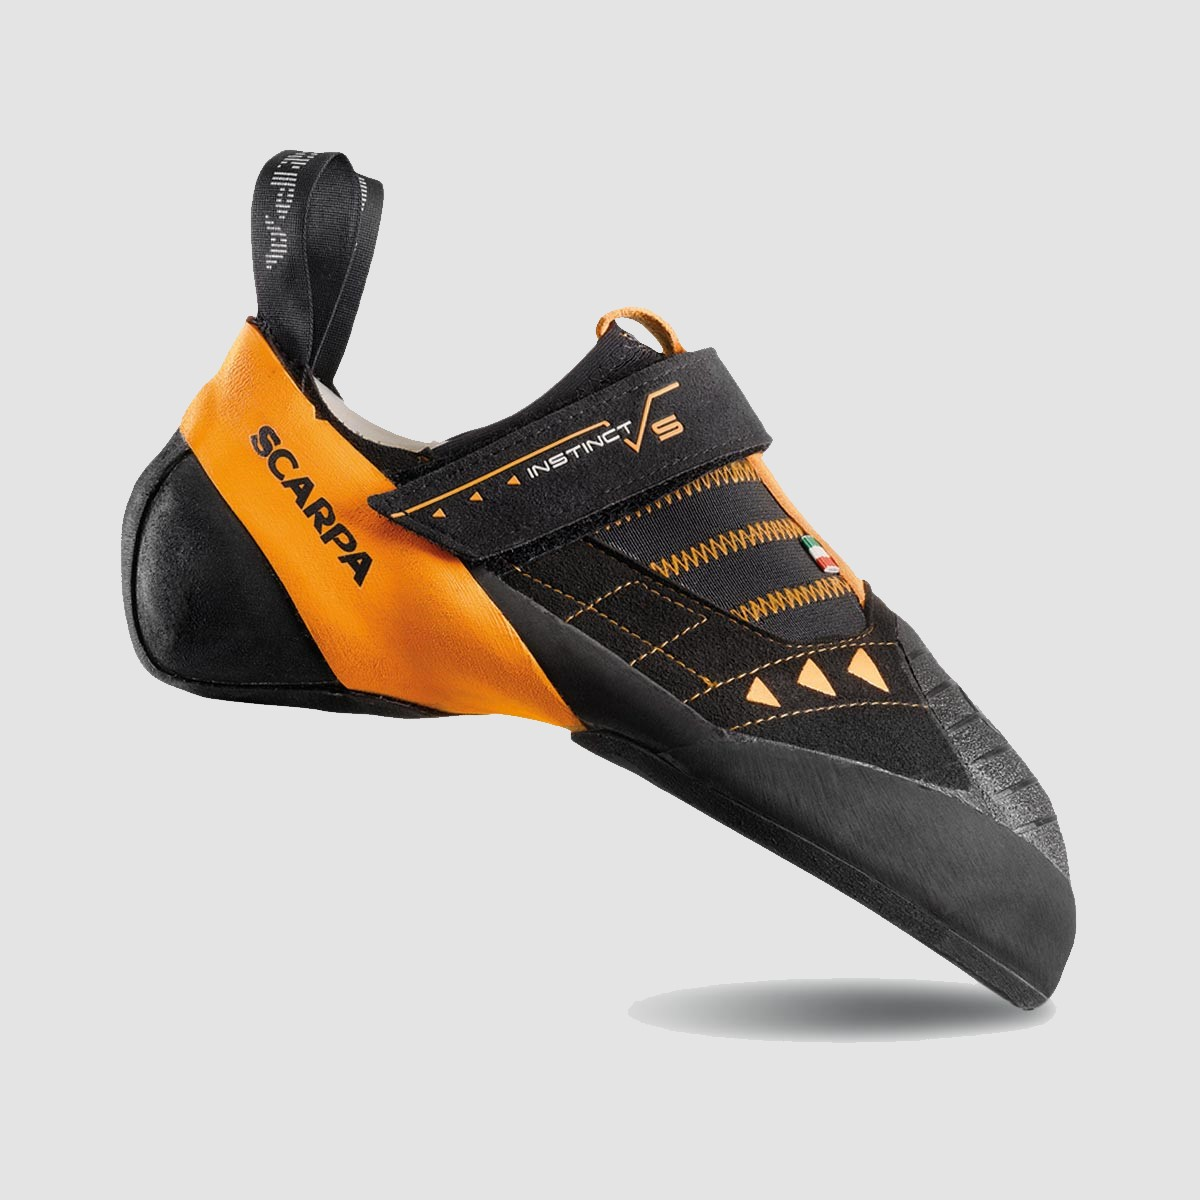
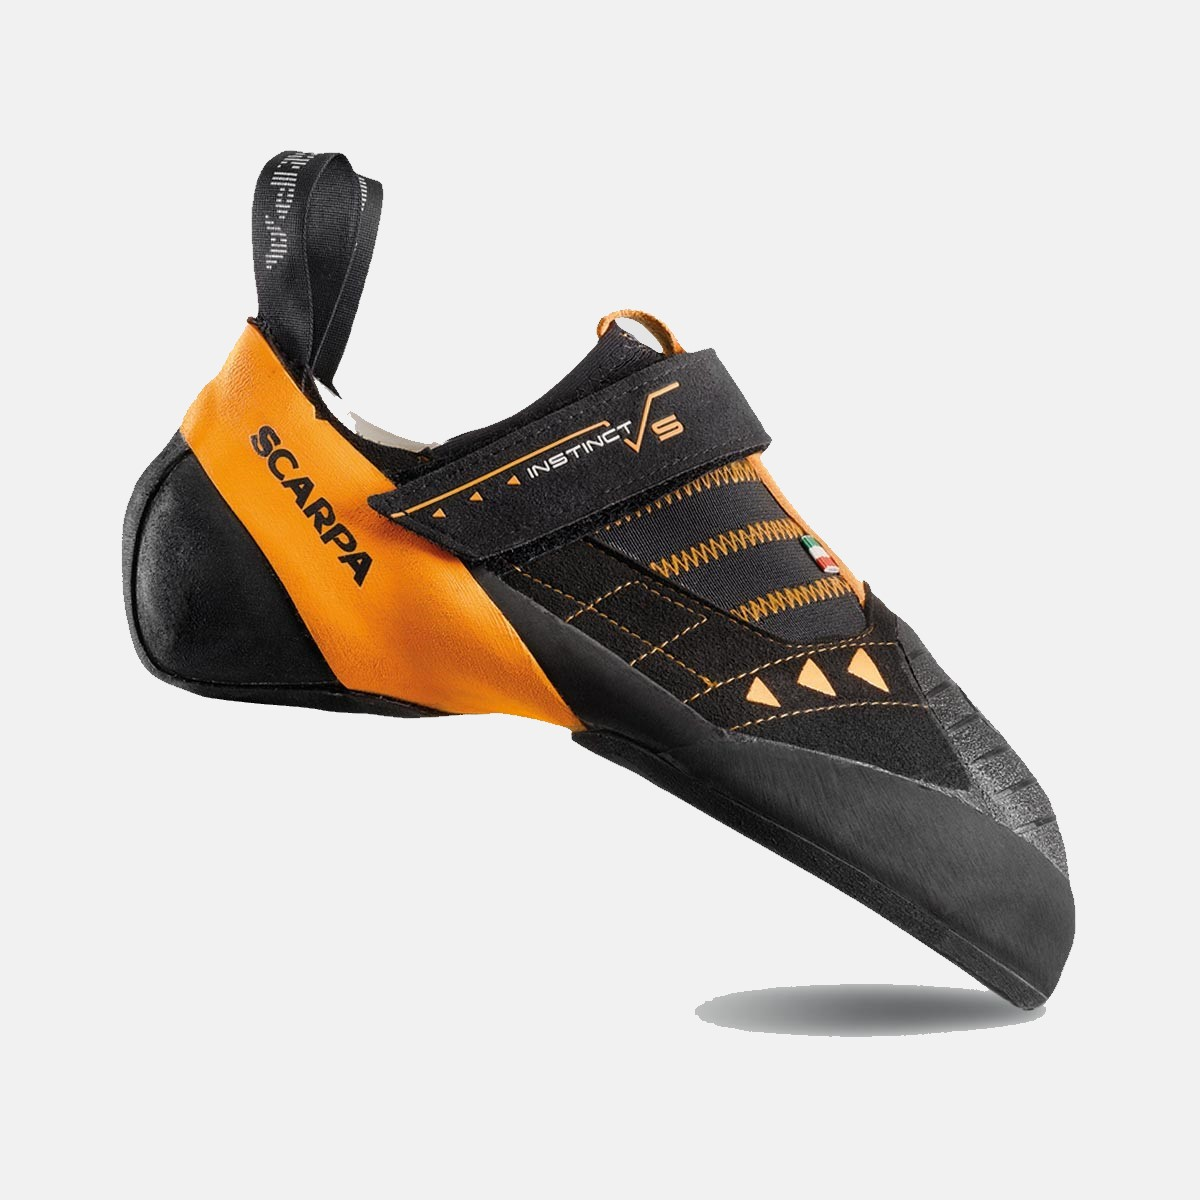
changed picture color

diff --git a/server/public/style.css b/server/public/style.css
@@ -6,6 +6,13 @@ body {
     height: 100vh;
     width: 100vw;
 }
+.disclaimer {
+    position: fixed;
+    bottom:0;
+    right: 0;
+    width:100%;
+    color: rgb(255, 255, 255);
+}
 .headerContainer {
     background-color: black;
 }
@@ -18,13 +25,14 @@ body {
 .headerIcon {
     background-image: url(./images/mountain_logo3.png);
     height: 100px;
-    width: 150px;
+    width: 170px;
     background-size: contain;
     background-position: center;
     background-repeat: no-repeat;
     background-color: transparent;
     display: inline-block;
     cursor: pointer;
+    margin-bottom: 2vh;
 }
 .headerTitle {
     font-family: 'Expletus Sans', cursive;
@@ -69,13 +77,13 @@ body {
     background-color: black;
 }
 .catalogItem {
-    background-color: rgb(228, 228, 228);
+    background-color: #f1f1f1;
     border: 5px solid black;
     border-radius: 7px;
 }
 .productImage {
     height: 300px;
-    background-color: rgb(228, 228, 228);
+    background-color: #f1f1f1;
 }
 .productInfo {
     background-color: white;
@@ -89,7 +97,7 @@ body {
     font-size: 1.4rem;
 }
 .productItem {
-    height: 30vh;
+    height: 50vh;
 }
 .mountain {
     color: black;
@@ -98,13 +106,26 @@ body {
     font-family: 'Roboto Condensed', sans-serif;
     width: 17vw;
 }
-.disclaimer {
-    position: fixed;
-    bottom:0;
-    right: 0;
-    width:100%;
-    color: rgb(255, 255, 255);
+.productListContainer > div:nth-child(1),
+.productListContainer > div:nth-child(5),
+.productListContainer > div:nth-child(9) {
+    border-left: none;
 }
+.productListContainer > div:nth-child(4),
+.productListContainer > div:nth-child(8),
+.productListContainer > div:nth-child(12) {
+    border-right: none;
+}
+
+.cartContainer {
+    background-color: rgb(255, 255, 255);
+    border: 5px solid black;
+    border-radius: 7px;
+}
+
+
+
+
 
 
 /* Quantity Incrementor */

diff --git a/client/components/cart-summary.jsx b/client/components/cart-summary.jsx
@@ -41,16 +41,16 @@ class CartSummary extends React.Component {
 
     if (cartItemArrayDisplay !== null) {
       return (
-        <div className="container">
-          <div onClick={this.setViewCallback.bind(this)} className="cursor row text-secondary">&lt;Back to Catalog</div><br/>
+        <div className="container cartContainer">
+          <div onClick={this.setViewCallback.bind(this)} className="cursor row text-dark">&lt;Back to Catalog</div><br/>
           <div className="display-4 row">
-            <div className="col">My Goodies:</div>
+            <div className="col">Cart Summary:</div>
           </div>
           <div>
             {cartItemArrayDisplay}
           </div>
           <div className="row align-items-center">
-            <h2 className="col text-left mt-3">Cart Total ${this.getCartTotal()}</h2>
+            <h2 className="col text-left mt-3">Cart Total: ${this.getCartTotal()}</h2>
             <div className="col text-right ">
               <button onClick={this.setViewCheckout.bind(this)} className="btn btn-primary">Checkout</button>
             </div>

diff --git a/client/components/product-details.jsx b/client/components/product-details.jsx
@@ -74,13 +74,13 @@ class ProductDetails extends React.Component {
         backgroundRepeat: 'no-repeat'
       };
       return (
-        <div className="container p-4 catalogItem">
+        <div className="container p-4 catalogItem my-5">
           <div onClick={this.setViewCallback.bind(this)} className="cursor row mb-4">
-            <div className="col text-secondary">&lt;Back to catalog</div>
+            <div className="col text-dark">&lt;Back to catalog</div>
           </div>
           <div className="row mt-4">
-            <div className="col productItem" style={style}></div>
-            <div className="text-center col-sm-6 mt-3">
+            <div className="col-lg-6 productItem" style={style}></div>
+            <div className="text-center col-lg-6 mt-3">
               <div className="display-3">{product.name}</div><br/>
               <h3 className="font-weight-bold">${this.numberWithCommas(product.price)}</h3><br/>
               <div className="font-italic">{product.shortDescription}</div><br/>

diff --git a/client/components/cart-summary-item.jsx b/client/components/cart-summary-item.jsx
@@ -21,12 +21,12 @@ class CartSummaryItem extends React.Component {
       backgroundRepeat: 'no-repeat'
     };
     return (
-      <div className="container mt-4 border border-primary p-4 pb-5">
-        <div className="row mt-4">
+      <div className="container mt-4 p-4 pb-5">
+        <div className="row mt-3">
           <div className="col productItem" style={style}></div>
-          <div className="text-left col-sm-6 mt-3">
-            <div className="display-3 text-left">{product.name}</div><br/>
-            <h3 className="font-weight-bold text-left">${this.numberWithCommas(product.price)}</h3>
+          <div className="text-left col-sm-6 mt-3 text-center">
+            <div className="display-4">{product.name}</div><br/>
+            <h3 className="font-weight-bold">${this.numberWithCommas(product.price)}</h3>
             <button onClick={this.handleDeleteCallback.bind(this)} className="btn btn-primary">Delete</button>
           </div>
         </div>

diff --git a/client/components/product-list.jsx b/client/components/product-list.jsx
@@ -15,7 +15,7 @@ class ProductList extends React.Component {
     return (
       <div className="catalogBody container-fluid">
         <div className="row banner mb-1"></div>
-        <div className="row justify-content-center">{eachProductList}</div>
+        <div className="row justify-content-center productListContainer">{eachProductList}</div>
       </div>
     );
   }
